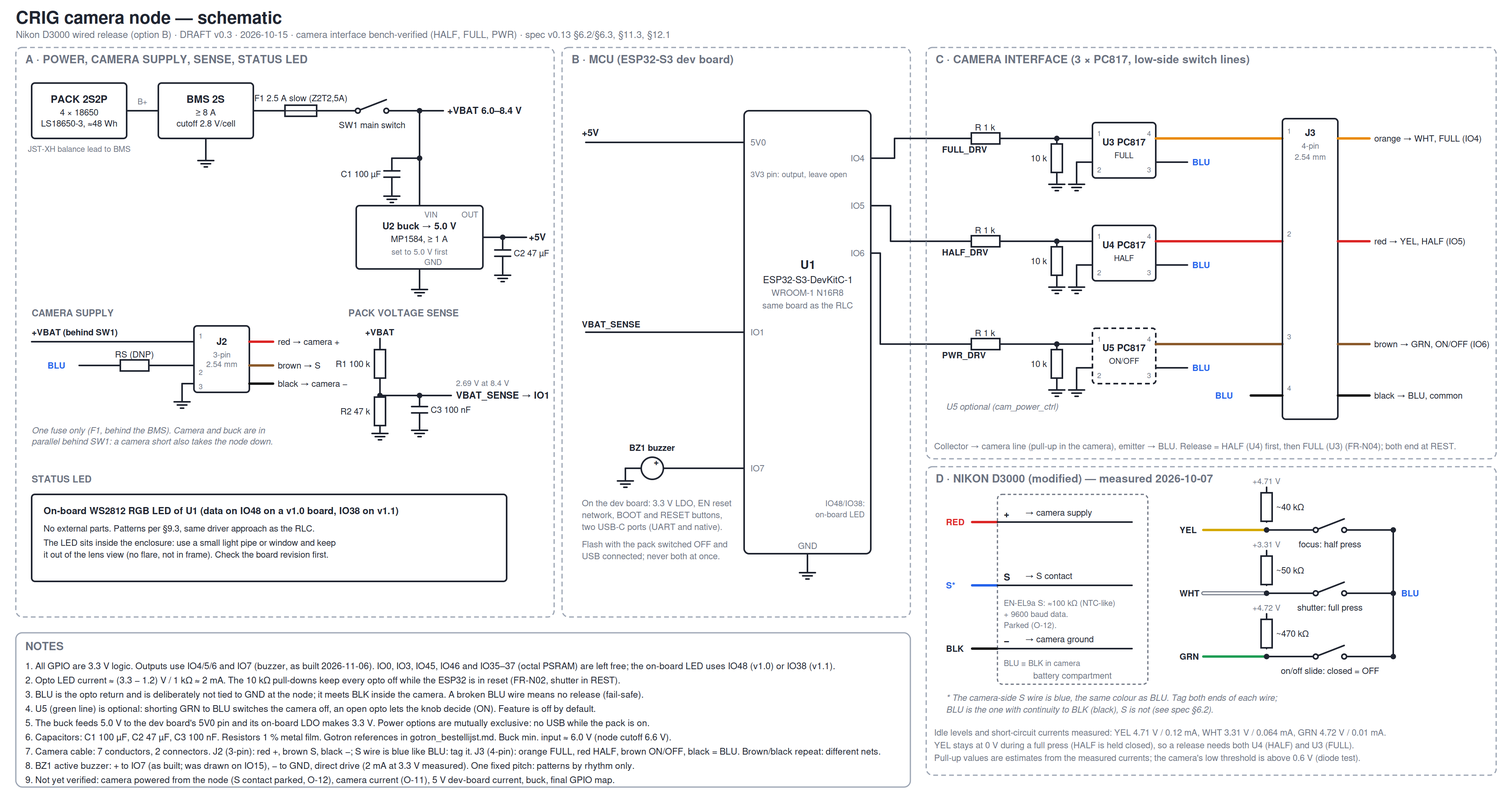
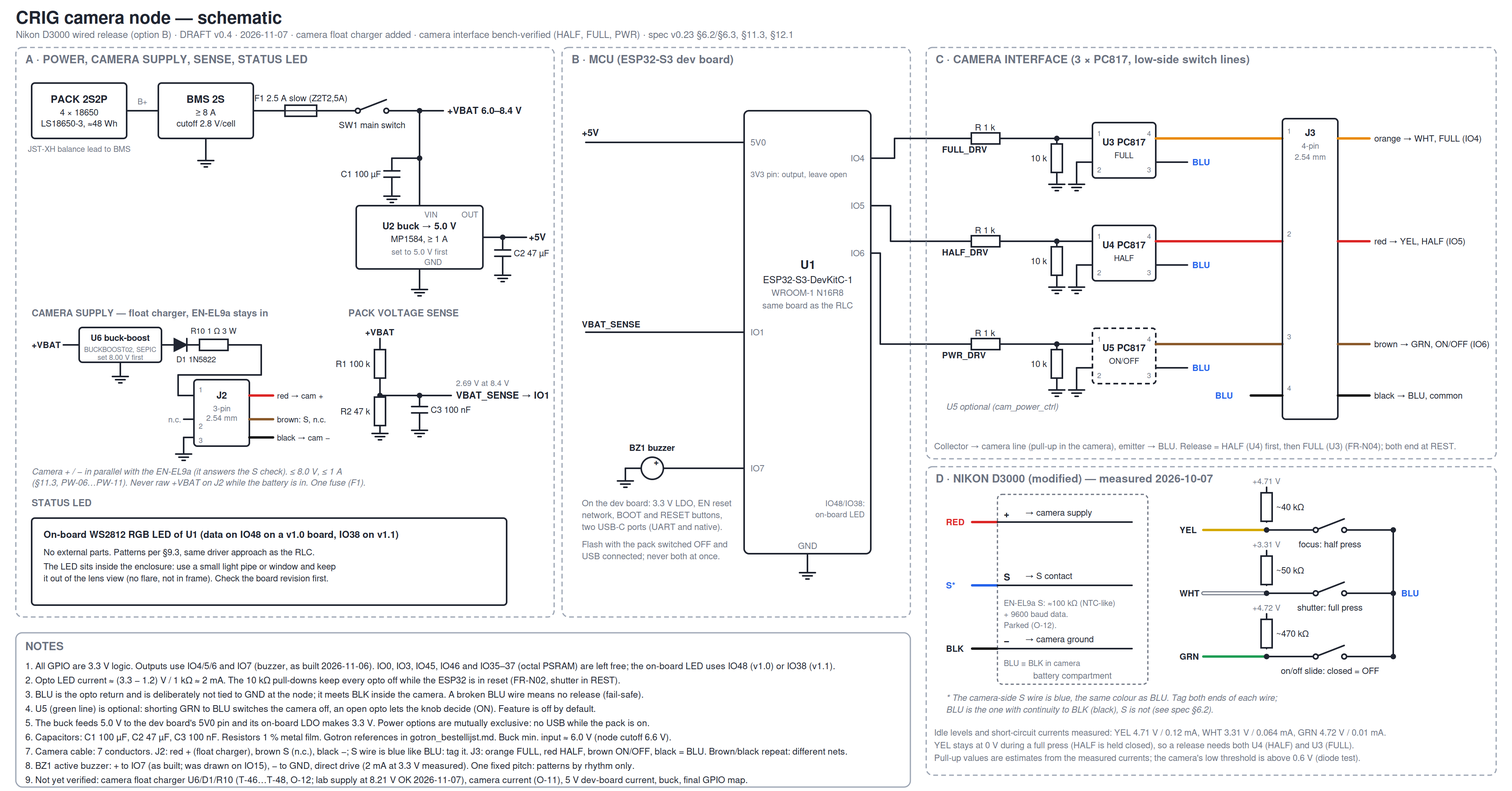
Camera power: float-charge the EN-EL9a at 8.0 V (spec v0.23, schematic v0.4)
Keep the original battery in the camera (it answers the S-line check) and
float-charge it through + and - from the node: BUCKBOOST02 (SEPIC) at 8.00 V,
1N5822, 1 ohm 3 W passive current limit. Lab supply at 8.21 V verified: no
battery error, camera shoots, idle ~100 mA. PW-06..PW-11, T-46..T-49, Gotron
parts list, handoff D40.

Changed region(s): [[0.0, 0.372, 0.2804, 0.744], [0.0935, 0.93, 0.5607, 0.992], [0.2181, 0.031, 0.4984, 0.062]]

diff --git a/camera-rig-functional-spec.md b/camera-rig-functional-spec.md
@@ -3,10 +3,10 @@
 | | |
 |---|---|
 | **Document** | Camera Rig (CRIG) — Functional Specification |
-| **Version** | 0.22 (draft) |
-| **Date** | 2026-11-03 |
+| **Version** | 0.23 (draft) |
+| **Date** | 2026-11-07 |
 | **Author** | David Steeman |
-| **Status** | Draft — wired release (option B) selected; camera power validation open (O-12); remote simplified (no arming, SHOOT only) |
+| **Status** | Draft — wired release (option B) selected; camera power: EN-EL9a stays in and is float-charged by the node at ≤ 8.0 V, validated on a lab supply, converter chain to build (O-12); remote simplified (no arming, SHOOT only) |
 
 ---
 
@@ -19,7 +19,7 @@ Two operating scenarios are supported:
 - **Scenario A — RLC launch (automatic):** motors are ignited with the Remote Launch Controller (RLC). The CRIG remote sits next to the RLC base unit at the pad and receives an optically isolated wired trigger signal from the base during the countdown. No operator action is needed to take the pictures.
 - **Scenario B — Third-party launch system (manual):** motors are ignited with another launch system (e.g. Wilson F/X). The operator holds the CRIG remote and presses SHOOT at "2" in the countdown, releasing it after liftoff.
 
-Both CRIG units are battery powered from their own packs, sized for a full launch day (§11). The camera node's pack also powers the camera, whose own battery is removed.
+Both CRIG units are battery powered from their own packs, sized for a full launch day (§11). The camera node's pack also powers the camera: the camera keeps its own EN-EL9a (which handles Nikon's battery check on the S contact), and the node float-charges it through a current-limited 8.0 V supply (§11.3).
 
 In scope:
 
@@ -254,7 +254,7 @@ Camera cable: **7 conductors on two polarised 2.54 mm plug-in connectors**; the 
 | J3 | 2 | red | YEL | HALF (focus) — GPIO5 via U4 |
 | J3 | 3 | brown | GRN | Camera on/off — GPIO6 via U5 (optional, §6.3) |
 | J3 | 4 | black | BLU | COMMON of focus/shutter (opto return, **not** the pack ground) |
-| J2 (3-pin, power) | 1 | red | RED | Camera supply + (switched +VBAT) |
+| J2 (3-pin, power) | 1 | red | RED | Camera supply + from the camera float charger (8.0 V max, current-limited, §11.3). **Never** raw +VBAT while the EN-EL9a is in the camera (PW-11) |
 | J2 | 2 | brown | S wire (blue, same colour as BLU) | S terminal; **not used by the node**. Bench only: S-line sniffer `firmware/ssniff` (S → 10 kΩ → GPIO2, listen only, §11.3 PW-01). The RS 100 Ω plan is obsolete |
 | J2 | 3 | black | BLK | Pack ground / camera − |
 
@@ -522,7 +522,7 @@ Implementation: the node uses the **on-board WS2812 (NeoPixel) RGB LED** of the 
 | Monitor | Off / shortest monitor-off time (saves power) |
 | Lens | 18 mm, portrait orientation (landscape when covering several pads) |
 | Card | Fast SD card with ≥ 8 GB free, formatted before each session |
-| Battery | EN-EL9a removed; camera powered by the node pack (§11.3) |
+| Battery | Original EN-EL9a stays in; float-charged by the node at ≤ 8.0 V (§11.3) |
 
 ## 11. Power
 
@@ -583,9 +583,28 @@ Power-bank module checks (owner, 2026-11-03, on battery with USB unplugged), all
 
 ### 11.3 Node and camera pack
 
-The camera's EN-EL9a is removed; leads are soldered to the camera's battery compartment terminals and connected to the node, which powers the camera from its own pack.
+**Camera power: float charging the EN-EL9a (decided 2026-11-07).** The camera keeps its original EN-EL9a, so the Nikon battery check on the S contact keeps working (PW-01). Leads are soldered to the camera's + and − battery compartment terminals, **in parallel with the inserted battery**; the S contact is not connected to the node. The node feeds those leads from a current-limited supply set to **8.0 V** (4.0 V per cell). The camera takes its average current from the node, and the battery stays partly full and supplies the peaks (mirror, shutter, AF, flash). This is the same thing the Nikon MH-23 charger does (8.4 V, 0.9 A, through + and − only), at a lower voltage.
 
-**Camera supply voltage:** the EN-EL9a is a 2S Li-ion pack (7.2–7.4 V nominal, 8.4 V full). A 2S Li-ion node pack (6.0–8.4 V) therefore feeds the camera directly, without regulation, within the voltage range the camera is designed for.
+**Why 8.0 V:** a fresh EN-EL9a is at 8.4 V, so the camera is built for more than 8.0 V and runs down to about 6.x V. For the battery, 4.0 V per cell is a mild float. Li-ion ages mainly from high voltage combined with heat, and 8.0 V leaves margin for converter tolerance (±2 % of 8.2 V would already be 8.36 V) and for warm days. The battery then sits at roughly 75–85 % charge, which is enough because it only buffers.
+
+**Bench validation, 2026-11-07:** lab supply in CV at 8.21 V on the camera's + and − with a partly discharged EN-EL9a in the camera: no "battery cannot be used", the camera shoots normally. The supply stayed in CV: 470 mA at the start; 430 mA with the camera on vs. 330 mA off (camera idle ≈ 100 mA ≈ 0.8 W, rough because the charge current was falling between readings); charge current with the camera off tapering 270 → 240 → 200 mA; battery at room temperature. Open: final float current, a clean idle reading on a full battery, peak current during a burst, battery-level display and power cycles while charged (T-46).
+
+**Camera float charger (node design).** Gotron stocks no buck-boost module with an adjustable current limit (searched 2026-11-07), so the current is limited passively:
+
+```
+switched +VBAT (6.0–8.4 V) ── Joy-IT BUCKBOOST02, set to 8.00 V ── 1N5822 Schottky ── 1 Ω 3 W ── J2 pin 1 → camera + (parallel with the EN-EL9a)
+pack − ───────────────────────────────────────────────────────────────────────────── J2 pin 3 → camera −
+```
+
+- **Buck-boost:** the node pack and the EN-EL9a are both 2S, so the input can be above or below the output. A plain boost module is not allowed: with the input above the output it passes current through its inductor and diode without limit. A plain buck cannot reach 8.0 V from a half-empty pack.
+- **Schottky diode:** blocks back-feed from the EN-EL9a into the converter and the node when the node is off or its pack is flat.
+- **1 Ω resistor:** limits the charge current. With the diode it also means the battery can never get above the converter setpoint, even at zero current.
+  - Worst case, EN-EL9a nearly empty at 6.6 V: (8.0 − 0.45 − 6.6) / 1 Ω ≈ **0.95 A**. That is the MH-23's own rating. The resistor dissipates ≈ 0.9 W and the diode ≈ 0.45 W.
+  - Camera on and idle (≈ 0.1 A): the battery settles at ≈ 8.0 − 0.3 − 0.1 ≈ **7.6 V**, about half charge. With the camera off it creeps towards ≈ 7.9 V.
+  - Trade-off: the battery buffer is about half full while the camera is on, not near full. That is acceptable because the node supplies the average current.
+- **Later upgrade (optional):** a real buck-boost charger IC (e.g. TI BQ25798, 1–4S, I²C) with its own NTC on the battery or grip, which blocks charging outside 0–45 °C and lets the ESP32 set and read the current. It is not stocked by Gotron.
+
+**Camera supply voltage (historical, v0.4–v0.22):** the original plan removed the EN-EL9a and fed the camera straight from the 2S node pack (6.0–8.4 V). That fails the Nikon battery check (PW-01) and is dropped. Until the float charger chain is built, J2 must not be connected while the EN-EL9a is in the camera (J2 pin 1 is still raw +VBAT on the bench node, D38).
 
 **Consumption estimate** — camera figures are estimates to be verified by measurement (O-11):
 
@@ -595,8 +614,10 @@ The camera's EN-EL9a is removed; leads are soldered to the camera's battery comp
 | Camera, powered on and idle (worst case: meters active all day, e.g. keep-alive enabled; with the default no keep-alive the camera is mostly in standby) | ~150 mA at 7.4 V ≈ 1.1 W × 12 h | ~13 Wh |
 | Node ESP32-S3 dev board (RX on) + LED | ~120 mA (estimate) through the board's 3.3 V LDO from 5 V ≈ 0.6 W, via the 5 V buck (~85 %) ≈ 0.7 W × 12 h | ~8.5 Wh |
 | Servo (option A only) | Detached at rest; keep-alive and burst movements | ~1 Wh |
-| **Worst-case total** | | **~37.5 Wh** |
-| **Required with × 1.3 margin** | | **~49 Wh** (pack ≈ 48 Wh with 4 × 3350 mAh: tight; camera power control §6.3 saves up to ~13 Wh; current of the dev board on 5 V to be measured, T-33) |
+| Camera float-charger losses | Camera energy (~28 Wh) through the buck-boost (~85 %) plus the diode and resistor (~5 % at 0.1 A) | ~+7 Wh |
+| EN-EL9a buffer | Starts the day at ~7.9 V (float, ~80 %); its charge is available on top of the pack | ~−6 Wh |
+| **Worst-case total** | | **~38.5 Wh** from the node pack |
+| **Required with × 1.3 margin** | | **~50 Wh** (pack ≈ 48 Wh with 4 × 3350 mAh: tight; the float charger adds ~7 Wh of losses, mostly offset by the EN-EL9a buffer; camera power control §6.3 saves up to ~13 Wh; current of the dev board on 5 V to be measured, T-33) |
 
 **Specification:**
 
@@ -607,7 +628,8 @@ The camera's EN-EL9a is removed; leads are soldered to the camera's battery comp
 | BMS | 2S protection/balancing board, ≥ 8 A continuous, over-discharge ≤ 2.8 V/cell, short-circuit protection |
 | Fuse | **One** fuse directly behind the BMS output, before the main switch, protecting everything behind it: 2.5 A slow-blow (5 × 20 mm). Raise to 5 A if the camera peak current measured in O-11/T-33 requires it |
 | Main switch | Powers node and camera together |
-| Camera branch | From the switched +VBAT directly (no own fuse), in parallel with the node buck → camera lead: 2 × 0.5 mm² silicone wire, ≤ 0.5 m, detachable polarised 2.54 mm connector J2 (3-pin, §6.2) at the node |
+| Camera branch | From the switched +VBAT (no own fuse), in parallel with the node buck → camera float charger (below) → camera lead: 2 × 0.5 mm² silicone wire, ≤ 0.5 m, detachable polarised 2.54 mm connector J2 (3-pin, §6.2) at the node |
+| Camera float charger | Joy-IT SBC-BuckBoost02 (Gotron BUCKBOOST02; 5–25 V in, 3–25 V out, 2 A, 30 W, ≤ 89 %), output set to **8.00 V ± 0.03 V** at no load and measured before connecting; then 1N5822 Schottky (3 A) and 1 Ω 3 W metal-oxide resistor in series to J2 pin 1. Max ≈ 0.95 A into an empty EN-EL9a (PW-06…PW-08). Chips seen on the Gotron photos (2026-11-07): FP5139 (Feeling Technology asynchronous **boost** PWM controller), MBR10450S or MBR1045OS (marking unclear; either way an MBR1045-class Schottky, 10 A / 45 V), BL1512 (not identified; probably the switching MOSFET). The board has one 4-pin coil (coupled inductor), so it is a **SEPIC** (confirmed 2026-11-07): input and output are coupled through a capacitor (no DC path from pack to camera) and the output passes the Schottky. There is no settable output current limit, so the 1 Ω stays. The 1N5822 stays too: the module's feedback divider sits behind its own diode and would slowly drain the EN-EL9a with the node off. Quiescent current and setpoint stability over 6.0–8.4 V input to be confirmed on the board (T-47) |
 | Node logic | Buck converter 2S → 5.0 V, ≥ 1 A (e.g. MP1584 module, set and measured before connecting), feeding the 5V0 pin of the dev board; its on-board LDO makes 3.3 V. Input must stay ≥ ~6.0 V (`v_node_cutoff` 6.6 V). USB must not be connected while the pack powers the board |
 | Servo (option A) | Separate buck converter 2S → 5 V, ≥ 3 A peak, ≥ 470 µF bulk capacitor at the servo |
 | Monitoring | Pack voltage divider to ADC; `v_node_warn` 7.0 V (~20 %), `v_node_cutoff` 6.6 V |
@@ -618,23 +640,30 @@ The camera's EN-EL9a is removed; leads are soldered to the camera's battery comp
 
 | ID | Requirement |
 |---|---|
-| PW-01 | Before removing the EN-EL9a for good, measure the resistance between each of its signal contacts (all contacts other than + and −) and −. **Measured (corrected 2026-10-15):** the EN-EL9a has one signal contact ("S", centre) that measures ≈100 kΩ to − at room temperature (86 kΩ after warming in the hand, rising again as it cools: NTC-like). Earlier versions of this document said 98 Ω; that was wrong. A fixed 96.8 kΩ resistor on S does **not** remove "battery cannot be used". With the original battery in the camera, S shows 0 V DC but bursts of 9600 baud data (≈1–1.5 V) at battery insertion: two bursts, the second with a fixed header (break, 0x55 sync, `25 55 FF`) and a payload that differs on every capture, so a fixed answer is not enough (challenge-response or counter suspected). **Parked:** the camera keeps running on the original Nikon battery; see `docs/en-el9-s-pin/EN-EL9_S-pin_findings.md`. Options when taken up again: Nikon EP-5 + EH-5A DC coupler, or a third-party EN-EL9 known to work in the D3000. The RS 100 Ω plan and the Gotron NTC100 idea are dropped. **Follow-up 2026-10-16/19:** a listen-only sniffer (`firmware/ssniff`, S → 10 kΩ → GPIO2/ADC, bench only) is ready to capture the camera alone and the camera ↔ battery exchange. Web research found no public description of the protocol; "decoded" third-party EP-5 couplers exist and are the practical route if camera power from the node is needed. Re-measured 2026-11-03: 102 kΩ S to − (battery out of the camera). |
-| PW-02 | Leads shall be soldered to the camera's battery compartment terminals with strain relief inside the compartment. The lead exits through a notch in the battery door so the door can close; if the camera has a battery-door switch, it must remain actuated. |
+| PW-01 | *(Historical: the EN-EL9a is no longer removed, see PW-06…PW-11.)* Before removing the EN-EL9a for good, measure the resistance between each of its signal contacts (all contacts other than + and −) and −. **Measured (corrected 2026-10-15):** the EN-EL9a has one signal contact ("S", centre) that measures ≈100 kΩ to − at room temperature (86 kΩ after warming in the hand, rising again as it cools: NTC-like). Earlier versions of this document said 98 Ω; that was wrong. A fixed 96.8 kΩ resistor on S does **not** remove "battery cannot be used". With the original battery in the camera, S shows 0 V DC but bursts of 9600 baud data (≈1–1.5 V) at battery insertion: two bursts, the second with a fixed header (break, 0x55 sync, `25 55 FF`) and a payload that differs on every capture, so a fixed answer is not enough (challenge-response or counter suspected). **Parked:** the camera keeps running on the original Nikon battery; see `docs/en-el9-s-pin/EN-EL9_S-pin_findings.md`. Options when taken up again: Nikon EP-5 + EH-5A DC coupler, or a third-party EN-EL9 known to work in the D3000. The RS 100 Ω plan and the Gotron NTC100 idea are dropped. **Follow-up 2026-10-16/19:** a listen-only sniffer (`firmware/ssniff`, S → 10 kΩ → GPIO2/ADC, bench only) is ready to capture the camera alone and the camera ↔ battery exchange. Web research found no public description of the protocol; "decoded" third-party EP-5 couplers exist and are the practical route if camera power from the node is needed. Re-measured 2026-11-03: 102 kΩ S to − (battery out of the camera). **Resolved 2026-11-07:** the EN-EL9a stays in the camera and is float-charged through + and − (PW-06…PW-11); a lab supply at 8.21 V in parallel with the battery gives no error. |
+| PW-02 | Leads shall be soldered to the camera's battery compartment terminals with strain relief inside the compartment, so that the EN-EL9a still fits and makes contact. The lead exits through a notch in the battery door so the door can close; if the camera has a battery-door switch, it must remain actuated. |
 | PW-03 | Polarity shall be verified with a multimeter before first connection. The camera lead connector shall be polarised. |
 | PW-04 | With option B (wired release), the shutter wires (COMMON, HALF, FULL) may share one multi-core cable with the camera power leads. |
-| PW-05 | The camera's own battery gauge reads the pack voltage and is only indicative; the node's pack voltage reading on the remote is authoritative. |
+| PW-05 | The camera's own battery gauge shows the EN-EL9a (float-charged, ~75–85 %) and says nothing about the node pack; the node's pack voltage reading on the remote is authoritative. |
+| PW-06 | The voltage at the camera's battery terminals shall never exceed **8.0 V** (4.0 V per cell) from the node. The float charger is set to 8.00 V ± 0.03 V at no load, measured at its output before it is first connected and after any adjustment. |
+| PW-07 | The current into the camera terminals shall be limited to ≤ 1.0 A for any EN-EL9a state (1 Ω series resistor: ≈ 0.95 A at 6.6 V). |
+| PW-08 | With the node off or its pack flat, the EN-EL9a shall not discharge into the node (series Schottky diode; reverse current < 0.1 mA, measured in T-47). |
+| PW-09 | The S contact stays between the EN-EL9a and the camera only; J2 pin 2 is not connected to the node (bench sniffer only). |
+| PW-10 | Charging only between 0 °C and 45 °C. The passive chain has no temperature cut-off, so this is an operating rule: keep the camera body out of direct sun, and do not run the float charger on a camera that has been below 0 °C until it has warmed up. |
+| PW-11 | Never connect the node pack directly (unregulated) to the camera terminals while the EN-EL9a is in: two Li-ion packs at different charge levels in parallel push large currents into each other. |
 
 ## 12. Hardware summary
 
 ### 12.1 Node
 
-Draft schematic: `crig_node_schematic.svg` (PNG alongside), v0.2, not bench-validated; the GPIO assignment in it (IO1 VBAT sense, IO4 FULL, IO5 HALF, IO6 camera power, IO15 buzzer (as built: IO7); status LED = on-board WS2812 on IO48/IO38) is a proposal.
+Draft schematic: `crig_node_schematic.svg` (PNG alongside), v0.4 (2026-11-07, camera float charger U6/D1/R10 added), not bench-validated; the GPIO assignment in it (IO1 VBAT sense, IO4 FULL, IO5 HALF, IO6 camera power, IO15 buzzer (as built: IO7); status LED = on-board WS2812 on IO48/IO38) is a proposal.
 
 - ESP32-S3-DevKitC-1 dev board (same as the RLC), powered at 5 V by the node buck; on-board LDO, EN reset network, BOOT/RESET buttons and USB-C used for flashing
 - Node and camera pack per §11.3
 - Actuator output: servo header (option A) and/or 2 × optocoupler output with connector (option B); optional third optocoupler for the camera on/off line (§6.3)
 - Active buzzer on GPIO7 (as built; the draft said GPIO15), + to GPIO7 and − to GND, direct drive (2 mA measured at 3.3 V). An active buzzer has one fixed pitch, so patterns are made by rhythm only
-- Camera connectors: J2 (3-pin, power and S) and J3 (4-pin, signals), 2.54 mm polarised (§6.2); status LED (on-board WS2812 of the dev board, §9.3), USB-C of the dev board for firmware and serial console
+- Camera float charger (§11.3): BUCKBOOST02 at 8.00 V → 1N5822 → 1 Ω 3 W → J2 pin 1
+- Camera connectors: J2 (3-pin, camera supply from the float charger; pin 2 S not used) and J3 (4-pin, signals), 2.54 mm polarised (§6.2); status LED (on-board WS2812 of the dev board, §9.3), USB-C of the dev board for firmware and serial console
 - Splash-resistant enclosure fixed to the camera bracket; grit and exhaust shielding for the camera
 
 ### 12.2 Remote
@@ -712,7 +741,11 @@ RLC-side parameters (`cam_lead_ms`, `cam_post_ms`, `cam_max_ms` and the ARM patt
 | T-11 | Low pack / low remote battery (bench supply ramp) | Warnings and cutoffs at the configured voltages, reported on the remote |
 | T-12 | TRIG from a bench supply + 470 Ω, with a 10 Hz ARM pattern on pin 3 (any ESP32 GPIO through 470 Ω) | Burst while asserted; REST within `t_trig_debounce` + `t_shoot_timeout` after deassert |
 | T-13 | Cable unplugged / no ARM pattern, TRIG forced on | TRIG ignored, no SHOOT; status NONE (or LOST if a heartbeat was seen since power-on) |
-| T-14 | Camera powered from the node pack (bench supply 6.6–8.4 V, then the real pack) | Camera operates normally over the full range; battery level plausible (PW-01) |
+| T-14 | Camera powered through the float charger from the node pack (bench supply 6.0–8.4 V on the node input, then the real pack), EN-EL9a in | Camera operates normally over the full input range; no "battery cannot be used"; voltage at the camera terminals ≤ 8.0 V (PW-06) |
+| T-46 | Float charging on a lab supply (CV 8.21 V, camera terminals, EN-EL9a in). **Partly passed 2026-11-07** (no error, shoots, 470 → 200 mA taper in CV, battery at room temperature, §11.3) | Still to record: final float current with the camera off; clean idle current on a full battery; highest current in a 20-frame burst and whether the supply leaves CV; battery-level display plausible; 5 power cycles and one battery re-insertion with the supply connected without an error; battery stays cool |
+| T-47 | Float charger chain on the bench before connecting the camera: BUCKBOOST02 + 1N5822 + 1 Ω, input swept 6.0–8.4 V | No-load output 8.00 V ± 0.03 V at every input, no overshoot at switch-on; converter quiescent current recorded; with the input off, reverse current from a battery at 8.0 V < 0.1 mA (PW-08); into a 6.6 V load (lab supply in sink mode or an empty EN-EL9a) ≤ 1.0 A (PW-07) |
+| T-48 | Float charger with the camera, 1 h: EN-EL9a partly empty at the start, camera on, bursts every 5 min | No error; battery settles around 7.6 V with the camera on; resistor, diode and converter hand-warm at most; battery at room temperature |
+| T-49 | Float charger across a launch day (with T-31) | Camera never shuts down for low battery; pack energy used recorded and compared with §11.3 |
 | T-15 | Galvanic isolation of the RLC interface | ≥ 10 MΩ between pins 1–3 and remote ground |
 | T-16 | Short in the camera lead (via fuse test load) | The pack fuse opens; nothing smokes, the BMS does not trip first |
 | T-17 | ARM decoding (pattern source on pin 3) | 1 Hz → CONNECTED; 10 Hz → ARMED within 0.5 s; back to 1 Hz → CONNECTED within 0.5 s; steady on or off → LOST within `t_arm_lost` + 0.5 s |
@@ -843,15 +876,15 @@ Both ADCs read ~1.5 % low against the meter (ESP32-S3 calibration spread at 12 d
 | O-4 | ~~Club rules for unattended cameras~~ — closed: club has no camera-specific rules |
 | O-5 | ~~ESP32 variant~~ — closed: ESP32-S3 on both units; the remote uses an ESP32-S3-DevKitC-1U (external antenna) like the RLC's board family (v0.15) |
 | O-6 | Actual camera frame count feedback is not available from the D3000; the remote shows an estimate only |
-| O-7 | ~~Node power option~~ — closed: node pack powers node and camera; camera battery removed, leads soldered to its terminals (§11.3) |
+| O-7 | ~~Node power option~~ — closed: node pack powers node and camera; leads soldered to the camera's battery terminals; since v0.23 the EN-EL9a stays in and is float-charged (§11.3) |
 | O-8 | Verify on the physical RLC base that **GPIO39 (TRIG) and GPIO41 (ARM)** are unconnected. Chosen 2026-11-03 from the RLC spec App. C.1 spares (38, 39, 41), cross-checked against the RLC `pin_config.h` (base uses 1, 2, 4–18, 21, 40, 42, 47, 48) and the DevKitC-1 N16R8 reserved pins; GPIO38 kept spare (on-board RGB on v1.1 boards; the base is v1.0, LED on GPIO48) |
 | O-20 | RLC side of the interface (Appendix A, v0.17): hand-off `docs/RLC_change_request_CRIG.md` to the RLC project; implement, test (T-21…T-27) |
 | O-21 | Firmware v0.19 has not been tested with a person present, and some features are not implemented yet. **Not tested:** RLC interface T-24 and the ERROR case of T-27 (T-21–T-23, T-25, T-26, the rest of T-27 and RLC T-C08 passed on the bench 2026-11-06, §14.5); the camera's own power from the node (O-12). The camera end to end (frames, standby wake, RLC burst) passed 2026-11-06 (§14.5). The real SHOOT button (5 taps and a 3 s hold, no bounce), LEDs, RGB patterns, buzzer tones, motor and deep sleep were checked on 2026-11-06 (§14.5). **Not implemented:** camera power control (`cam_power_ctrl`, §6.3; stays off); optional keep-alive (`t_keepalive_interval`, default off); CAL / servo actuator (option A); NVS storage of parameters; final buzzer tone patterns (O-17, provisional tones in use) |
 | O-9 | Location of the 5-pin DIN socket (AD322) on the RLC base panel |
-| O-22 | **Closed 2026-11-06.** Node VBAT sense read the ADC ceiling (9864 mV) whatever the supply: R1 and R2 were swapped (47 k on top). Swapped back; reads within 1 % (§14.5). Found on the way: USB back-feeds ~3.7 V onto +VBAT through the buck, so `v_no_supply` is now 4.5 V (FR-N10). Never feed more than 8.4 V: J2 passes the supply to the camera unregulated |
+| O-22 | **Closed 2026-11-06.** Node VBAT sense read the ADC ceiling (9864 mV) whatever the supply: R1 and R2 were swapped (47 k on top). Swapped back; reads within 1 % (§14.5). Found on the way: USB back-feeds ~3.7 V onto +VBAT through the buck, so `v_no_supply` is now 4.5 V (FR-N10). Never feed more than 8.4 V: J2 passes the supply to the camera unregulated (until the float charger of §11.3 is built; then J2 is ≤ 8.0 V) |
 | O-10 | ~~Isolated DC-DC converter~~ — closed: no longer needed; the remote has its own battery and the interface is fully optically isolated |
 | O-11 | Measure the D3000's actual current draw (standby, meters active, during a burst) and update the §11.3 budget |
-| O-12 | EN-EL9a S contact: ≈100 kΩ NTC-like plus 9600 baud data (not 98 Ω); a fixed resistor does not remove the "battery cannot be used" error. **Parked**; the node cannot yet power the camera, the camera uses the original battery (PW-01). Reopen when camera power from the node is needed. Sniffer `firmware/ssniff` ready (bench only); alternative: a third-party EP-5 coupler that works in the D3000 without error |
+| O-12 | Camera power from the node. The EN-EL9a S contact (≈100 kΩ NTC-like plus 9600 baud data) cannot be faked with a resistor (PW-01). **Approach decided 2026-11-07:** keep the EN-EL9a in and float-charge it at ≤ 8.0 V through + and − (§11.3, PW-06…PW-11); a lab supply at 8.21 V works without error (T-46 partly passed). Open until the BUCKBOOST02 + 1N5822 + 1 Ω chain is built and T-46…T-48 pass. The S-line reverse-engineering (`firmware/ssniff`) is no longer needed |
 | O-13 | ~~Shutter/power flex pinout~~ — closed: blue = COMMON, yellow = HALF, white = FULL, green = on/off (§6.2, §6.3) |
 | O-16 | Node dev board antenna: DevKitC-1 (PCB antenna) vs. -1U (u.FL); decide after the range test (T-30). Also measure the dev board current at 5 V |
 | O-18 | ~~SHOOT button~~ — closed 2026-11-03: plain push button + two separate 3 mm LEDs (green IO10, red IO11), direct GPIO drive. Original text: choose an illuminated type with a bi-colour (or two-colour) ring whose LEDs light at ≤ 3.3 V per colour and a few mA, since they are driven directly from GPIOs (no drivers). Series resistor values follow from the chosen ring. The three discrete LEDs are dropped (v0.15) |
@@ -913,6 +946,7 @@ T-21 to T-27 (§14.2), to be added to the RLC test specification with RLC-side I
 | 0.1 | 2026-09-27 | Initial draft |
 | 0.2 | 2026-09-27 | Added node power options, closed O-4, added O-7 |
 | 0.3 | 2026-09-27 | Two scenarios (RLC automatic / third-party manual); CRIG remote as the node's only controller; wired RLC interface with power from the base battery and single TRIG line; default channel changed to 1 (RLC on 11), O-2 closed; camera wake handled by the node only; no pad matching; integration tests; Appendix A RLC change request |
+| 0.23 | 2026-11-07 | Camera power: the EN-EL9a stays in the camera and is float-charged by the node at ≤ 8.0 V through + and − (§11.3 rewritten, §1, §6.2 J2 pin 1, §10, §12.1). Bench check on a lab supply at 8.21 V: no battery error, camera shoots, camera idle ≈ 100 mA. Float charger: Joy-IT BUCKBOOST02 at 8.00 V + 1N5822 + 1 Ω 3 W (passive current limit ≈ 0.95 A max); PW-05 updated, PW-06…PW-11 added; power budget with charger losses and the EN-EL9a buffer; T-14 revised, T-46…T-49 added; O-7, O-12, O-22 updated; node schematic v0.4 (float charger U6/D1/R10, J2 pin 2 n.c.) |
 | 0.22 | 2026-11-07 | Protocol version 2: HEARTBEAT carries the remote battery voltage (§7.2, §7.3); the node reports and logs it (FR-N20), so the remote's runtime can be logged on the node's USB console while the remote runs on its cell. Host tests 32 checks; HIL 15/15 (H03, H12 not run: node on its native port) |
 | 0.21 | 2026-11-06 | Battery sense fixed on both units (§14.5): node R1/R2 were swapped (O-22 closed); remote divider was on IO13 instead of IO1, so the 2026-11-03 battery pass (§11.2) was a floating pin and is withdrawn; both now read within ~1.5 %. Node `v_no_supply` 2.0 → 4.5 V because USB back-feeds ~3.7 V onto +VBAT (FR-N10, §13); §11.2 notes that the battery ADC must be an ADC1 pin |
 | 0.20 | 2026-11-06 | RLC interface on the bench (U4, U6 and the DIN socket fitted, RLC fw 1.2.22): the ARM input showed about four falling edges per pulse (optocoupler turn-off), so the remote now samples ARM every 1 ms with a 3 ms debounce (FR-R10 note); with the edge interrupt the 10 Hz armed pattern would never have decoded. New HIL tests R01–R02 against the real base (§14.5); O-21 updated; arm-and-fire bench session with the real RLC (T-21, T-22, T-26, T-27 except ERROR, RLC T-C08 all pass, §14.5; then T-23 and T-25 pass); node no longer gives a wake pulse straight after a burst (FR-N19); look-and-listen check passed (§14.5): node buzzer on GPIO7 as wired (FR-N18), longer node beeps, RLC-restored beep on the remote, OLED switched off before deep sleep; camera end to end: 3 fps confirmed, 19 frames per RLC launch, wake from standby (§14.5); O-22 added (VBAT sense stuck at the ADC ceiling) |

diff --git a/CRIG_session_handoff.md b/CRIG_session_handoff.md
@@ -60,12 +60,12 @@ Findings from reading the RLC source (firmware ~1.2.19, FSD v1.7x):
 | D10 | CRIG radio on **channel 1** (RLC fixed on 11) | No airtime interaction |
 | D11 | No WAKE line from the RLC; the **node alone** handles camera wake | Saves a base pin; keep-alive is sufficient |
 | D12 | ~~Power CRIG remote from RLC base~~ → **reverted**: remote has its **own battery** | Full galvanic isolation via optocoupler; RLC supplies no power |
-| D13 | Node has a **2S2P 18650 pack (~50 Wh)** that powers **node + camera**; camera battery removed, leads soldered to camera battery terminals | Sized for a 12 h launch day, ~1 000 frames |
+| D13 | Node has a **2S2P 18650 pack (~50 Wh)** that powers **node + camera**; leads soldered to camera battery terminals; camera battery removed (**superseded by D40:** the EN-EL9a stays in and is float-charged) | Sized for a 12 h launch day, ~1 000 frames |
 | D14 | Remote battery: **1 × 18650 ≥ 3 000 mAh**, USB-C charging | ~16 h at ~185 mA (spec v0.15 §11.2; the earlier ~24 h estimate assumed a buck-boost to 3.3 V) |
 | D15 | *(Superseded by D31/D32.)* RLC interface connector: **GX12-4**: TRIG+, TRIG−, DET, DET_RET (DET pins bridged inside the base socket for cable detect) | Connector type not used for igniters |
 | D16 | Trigger window in base: assert at PRE_FIRE + 3000 ms (T‑2), deassert at fire pulse end + 3000 ms; immediate deassert on any abort/ERROR/disarm; hard cap 10 s | See spec §8.4 and Appendix A |
 | D17 | Camera interface (bench-verified 2026-10-15: HALF + FULL released the shutter; HALF = U4/GPIO5, FULL = U3/GPIO4; a soldering fault on the FULL stage was repaired): 2 × PC817 (HALF, FULL) on the D3000's measured low-side switch lines; FULL asserts both; optional 3rd on the green on/off line | Spec §6.2/§6.3; measurements in §6.2 below |
-| D18 | EN-EL9a "S" contact: **corrected 2026-10-15** — it is not ~98 Ω but ≈100 kΩ at room temperature (NTC-like, 86 kΩ when warmed) and it also carries a 9600 baud data exchange; a fixed resistor (tried 96.8 kΩ) does NOT remove "battery cannot be used". Parked, see `docs/en-el9-s-pin/EN-EL9_S-pin_findings.md`. Camera keeps running on the original Nikon battery for now. S wire must not be blue (BLU = COMMON) | The earlier 98 Ω / RS 100 Ω plan is invalid Re-measured 2026-11-03: 102 kΩ S to − (battery out of the camera). |
+| D18 | EN-EL9a "S" contact: **corrected 2026-10-15** — it is not ~98 Ω but ≈100 kΩ at room temperature (NTC-like, 86 kΩ when warmed) and it also carries a 9600 baud data exchange; a fixed resistor (tried 96.8 kΩ) does NOT remove "battery cannot be used". Parked (resolved differently by D40: keep the battery in, float-charge it), see `docs/en-el9-s-pin/EN-EL9_S-pin_findings.md`. Camera keeps running on the original Nikon battery for now. S wire must not be blue (BLU = COMMON) | The earlier 98 Ω / RS 100 Ω plan is invalid Re-measured 2026-11-03: 102 kΩ S to − (battery out of the camera). |
 | D19 | Node uses the ESP32-S3-DevKitC-1 (same as the RLC) fed 5.0 V by the buck on its 5V0 pin | On-board LDO, EN network, BOOT/RESET, USB-C; budget +3.5 Wh (spec v0.6 §11.3); no USB while the pack is on; antenna O-16 |
 | D20 | Status LED = on-board WS2812 (IO48 on v1.0, IO38 on v1.1) | No external LED; light pipe out of the lens view |
 | D24 | *(Hardware superseded by D30: plain button + two LEDs; the green/red readiness meaning stays.)* Remote SHOOT button is an illuminated button with a bi-colour ring: green = rig ready (link OK, no FAULT/LOCKOUT, batteries OK; "node ARMED" dropped in v0.15), red otherwise (spec FR-R13); both use cases kept: manual remote and RLC TRIG | Spec v0.8; O-18 |
@@ -79,6 +79,7 @@ Findings from reading the RLC source (firmware ~1.2.19, FSD v1.7x):
 | D37 | **Look-and-listen check (2026-11-06):** node buzzer is wired to GPIO7 (draft said GPIO15): firmware follows the wiring. Node beeps lengthened (boot 200 ms, link-up 2 × 100 ms); remote beeps 2 × 100 ms when the RLC comes back after LOST; OLED display + charge pump off before deep sleep. Readiness LEDs stay green while shooting (by design; shooting is shown by motor, RGB, OLED). Console `beep <ms>` on both units, `reboot` on the node | Spec v0.20 FR-N18, §14.5 |
 | D38 | **Camera end to end (2026-11-06):** D3000 on its own battery, release cable J3 only (J2 stays disconnected while the camera battery is in: it is wired straight to the battery terminals, unregulated). 3.0 fps confirmed; an RLC launch gives 19 frames, ~6 before ignition; wakes from standby. Frames can be read from the card over USB (gvfs gphoto2). Open: node VBAT sense stuck at the ADC ceiling (O-22) | Spec v0.20 §14.5, O-22 |
 | D39 | **Battery sense fixed (2026-11-06):** node R1/R2 were swapped (O-22 closed); the remote divider was on IO13, not IO1, so the 2026-11-03 battery pass was a floating pin. Both now read within ~1.5 % of the meter. USB alone back-feeds ~3.7 V onto the node +VBAT through the buck, so `v_no_supply` is 4.5 V (was 2.0 V). Lesson: check an ADC reading against a meter and with the input switched off before calling it a pass. Spec v0.21 |
+| D40 | **Camera power by float charging (2026-11-07):** the EN-EL9a stays in the camera (it answers the S-line battery check) and the node float-charges it through + and − at ≤ 8.0 V (4.0 V/cell, margin for converter tolerance and heat). Lab supply CV 8.21 V on the camera terminals: no error, camera shoots, 470 → 200 mA taper, camera idle ≈ 100 mA, battery at room temperature. Gotron has no CC/CV buck-boost, so: Joy-IT BUCKBOOST02 set to 8.00 V → 1N5822 (back-feed block) → 1 Ω 3 W (passive limit, ≈ 0.95 A into an empty pack). Never connect raw +VBAT to J2 while the battery is in | Spec v0.23 §11.3, PW-06…PW-11, T-46…T-49; supersedes the battery-removal plan (D18, O-7) |
 | D28 | **No arming (2026-11-01):** ARM switch, TEST and MENU buttons and the three discrete LEDs removed from the remote; node has no DISARMED/ARMED states (IDLE instead); a short SHOOT tap is the test frame; config/calibration/test via the node's USB console | "It is not a launch controller; accidental triggering wastes a few shots." Spec v0.15 principle 8, §9.1, §9.2, §7.3 |
 | D29 | Remote hardware (2026-11-01): ESP32-S3-DevKitC-1U N16R8 with external antenna; 18650 → protection → switch → 5 V boost → 5V0 (~16 h; parts as built in D30); on-board RGB LED = status; ring LEDs and buzzer (same part as node) direct from GPIOs; NPN only for the vibration motor | Spec v0.15 §11.2, §12.2; draft `crig_remote_schematic.svg` (generator `tools/remote_schematic.py`); supersedes D14's ~24 h / TPS63020+BQ24074 plan |
 | D27 | The camera-side S wire is blue, the same colour as BLU (no other colour available): tag both ends and verify BLU has continuity to BLK, S does not | Spec v0.12 §6.2 |
@@ -111,7 +112,7 @@ Scenario B (other): operator holds SHOOT on CRIG remote ────────
 | O-8 | Verify chosen RLC base spare GPIO physically + DevKitC-1 revision | David |
 | O-9 | Location of the 5-pin DIN socket on the RLC base panel | David |
 | O-11 | Measure D3000 current draw (standby, meters active, burst) and update the power budget | David |
-| O-12 | EN-EL9a S contact re-measured 2026-10-15: ≈100 kΩ NTC-like plus 9600 baud data (not 98 Ω). 96.8 kΩ on S did not remove the error. **Parked**; findings in `docs/en-el9-s-pin/`. Powering the camera from the node is on hold; the camera runs on the original battery | David |
+| O-12 | Camera power from the node: **decided 2026-11-07** to keep the EN-EL9a in and float-charge it at ≤ 8.0 V through + and − (BUCKBOOST02 at 8.00 V + 1N5822 + 1 Ω 3 W). Lab supply at 8.21 V works without error. Open until the chain is built and T-46…T-48 pass (spec v0.23 §11.3) | David |
 | O-13 | ~~Pinout of shutter/power flex~~ — closed: see §6.2 | — |
 | O-18 | ~~SHOOT ring type~~ — closed 2026-11-03: plain button + two 3 mm LEDs | — |
 | O-19 | ~~Remote board revision / RGB pin~~ — closed 2026-11-03: GPIO48, verified | — |
@@ -164,7 +165,7 @@ Coloured wires were soldered to the shutter/focus switch, the on/off switch and 
 
 - ESP32-S3 (bring-up and `firmware/optotest`) drives the three optocouplers: HALF (GPIO5/U4 → camera yellow), FULL (GPIO4/U3 → camera white), PWR (GPIO6/U5 → camera green). The camera takes a picture with HALF + FULL asserted and releases the shutter when both end.
 - HALF and FULL were documented the other way round in spec ≤ v0.12; fixed in spec v0.13, schematic v0.3 and the firmware. The wires at the connector were **not** changed.
-- Powering the camera from the node is parked: the S contact of the EN-EL9a is ≈100 kΩ + a 9600 baud exchange, not 98 Ω (see D18 and `docs/en-el9-s-pin/`). The camera runs on the original battery; the node's ESP32 is not powered from the camera supply.
+- *(Superseded 2026-11-07 by D40: float charging with the EN-EL9a in.)* Powering the camera from the node is parked: the S contact of the EN-EL9a is ≈100 kΩ + a 9600 baud exchange, not 98 Ω (see D18 and `docs/en-el9-s-pin/`). The camera runs on the original battery; the node's ESP32 is not powered from the camera supply.
 - `firmware/bringup` after the mapping fix: `a`, then `f` (HALF 1000 ms, then HALF+FULL 500 ms) takes one picture (verified 2026-10-15).
 - Timing sweeps 2026-10-15 (`s`, `S`; manual focus, single frame, D3000): every attempt took a picture, down to FULL = 10 ms (one 10 ms RTOS tick, so 10–20 ms in practice) with HALF 1000 ms before it, and with HALF lead 0 ms (HALF and FULL asserted together) at FULL 500 ms. The camera is very tolerant of short pulses, so the real timings can be chosen with a wide margin; not yet tested: continuous release (burst) rate with FULL held, autofocus, camera waking from standby.
 - Burst test 2026-10-15 (continuous release, FULL held with `F`, manual focus, 1/200 s, 3872x2592 JPEG): EXIF times (0.5 s resolution, `docs/bench/exif-times-2026-10-15.tsv`) show DSC_4590–4660 = 71 frames from 15:42:09.5 to 15:42:37.5, i.e. ≈2.5 frames/s on average; the first 11 frames took ≈3.5 s (≈3 fps), the last 11 ≈4 s (≈2.5 fps): a slight slow-down once the buffer is full, no stall. (Camera clock; EXIF resolution is only 0.5 s.)

diff --git a/changelog.md b/changelog.md
@@ -423,3 +423,46 @@ David measured the S contact to − on the original EN-EL9a (out of the camera):
 - Tests: host 32 checks (new: HEARTBEAT v2 round-trip, old 1-byte HEARTBEAT rejected); HIL 15/15 (H03 and H12 need the node on its UART bridge, not run).
 - New `firmware/crig/tools/runtime_log.py`: logs the node's native console with host timestamps and asks for `status` every 30 s; reopens the port if it drops; meant to run detached (`setsid nohup …`).
 - Docs: spec v0.22 (§7.2 version, §7.3 HEARTBEAT, FR-N20, history), firmware README.
+
+## 2026-11-07 (cont.) — Camera power by float charging the EN-EL9a (spec v0.23)
+
+Goal: power the D3000 from the node without faking the Nikon battery check on the S contact. Idea: keep the original EN-EL9a in the camera and charge it continuously from the node through + and − only.
+
+### Bench test (lab supply)
+
+- Lab supply CV 8.21 V on the camera's + and − battery contacts, in parallel with a partly discharged EN-EL9a: **no "battery cannot be used"**, camera shoots normally.
+- Supply stayed in CV throughout: 470 mA at the start; 430 mA camera on vs. 330 mA camera off → camera idle ≈ 100 mA (≈ 0.8 W; rough, the charge current was falling between readings). Charge current with the camera off then 270 → 240 → 200 mA. Battery at room temperature.
+- Still to record (T-46): final float current, clean idle current on a full battery, peak current during a burst, battery-level display, power cycles and a re-insertion with the supply connected.
+
+### Design decisions
+
+- **8.0 V max at the camera terminals** (4.0 V/cell): the camera is built for 8.4 V; 8.0 V gives margin for converter tolerance (±2 % of 8.2 V is already 8.36 V) and heat. The battery floats at ~75–85 %, which is enough because it only buffers peaks.
+- Gotron has **no buck-boost with an adjustable current limit** (searched "buck boost", "step up down", "dc-dc", "CC CV"). Chosen: passive current limit.
+
+```
++VBAT (6.0–8.4 V) → U6 Joy-IT BUCKBOOST02 @ 8.00 V → D1 1N5822 → R10 1 Ω 3 W → J2 pin 1 → camera + (parallel with the EN-EL9a)
+```
+
+| Part | Why |
+|---|---|
+| BUCKBOOST02 (FP5139 boost controller, one 4-pin coupled inductor → **SEPIC**, confirmed from photos; MBR10450S/MBR1045OS Schottky; BL1512 probably the MOSFET) | 2S → 2S needs both up and down; SEPIC has no DC path from pack to camera. A plain boost module would pass unlimited current when Vin > Vout |
+| 1N5822 (3 A) | Stops back-feed; the module's feedback divider sits behind its own diode and would slowly drain the EN-EL9a with the node off |
+| 1 Ω 3 W | Passive current limit: ≈ 0.95 A into an EN-EL9a at 6.6 V (≈ Nikon MH-23's 0.9 A); battery settles ≈ 7.6 V with the camera idle, ≈ 7.9 V with it off |
+
+- Optional later upgrade: TI BQ25798 charger IC with its own NTC (not at Gotron).
+
+### Documentation
+
+| File | Change |
+|---|---|
+| `camera-rig-functional-spec.md` | v0.23: §11.3 rewritten (float charging, bench result, charger chain, budget with ~7 Wh charger losses offset by ~6 Wh EN-EL9a buffer); J2 pin 1 from the charger, pin 2 n.c.; §1, §10, §12.1; PW-01 marked historical/resolved, PW-05 updated, PW-06…PW-11 added; T-14 revised, T-46…T-49 added; O-7, O-12, O-22 updated |
+| `crig_node_schematic.svg/.png` | v0.4: camera-supply block redrawn with U6/D1/R10, RS removed, J2 pin 2 n.c.; notes 7 and 9 updated (edited by hand, no generator script exists for the node schematic) |
+| `CRIG_session_handoff.md` | D40 added; D13, D18, O-12 and the bench-status note marked superseded |
+| `gotron_bestellijst.md` | New section "Camera-floatlader": BUCKBOOST02 ×2, 1N5822 ×2, R3W/1E0 ×2, R3W/1E5 ×1 ≈ €14.54 |
+| `docs/en-el9-s-pin/EN-EL9_S-pin_findings.md` | Update banner: S protocol no longer needs reverse-engineering |
+
+### Notes
+
+- **Do not connect J2 while the EN-EL9a is in** until the charger chain is built: on the bench node J2 pin 1 is still raw +VBAT.
+- Charging only 0–45 °C (PW-10): the passive chain has no temperature cut-off.
+- Next: order the parts, run T-47 (chain alone: setpoint over 6.0–8.4 V input, quiescent and reverse current, ≤ 1 A into 6.6 V), then T-46/T-48 with the camera.

diff --git a/gotron_bestellijst.md b/gotron_bestellijst.md
@@ -37,6 +37,18 @@ Prijzen incl. btw, opgehaald op 2026-10-07 (kortingsprijs waar van toepassing). 
 - TPS63020 en BQ24074 (remote)
 - Grote gele SHOOT-knop, ARM-toggle met beugel, TEST/MENU-knoppen, schuifschakelaar
 
+## Camera-floatlader (spec v0.23 §11.3, nog te bestellen)
+
+EN-EL9a blijft in de camera; de node houdt hem op max. 8,0 V. Prijzen incl. btw, opgehaald op 2026-11-07. Gotron heeft geen buck-boost met instelbare stroombegrenzing; de stroom wordt passief begrensd met diode + weerstand.
+
+| Gotron-ref. | Onderdeel | Aantal | Stukprijs | Totaal | Opmerking |
+|---|---|---|---|---|---|
+| BUCKBOOST02 | [DC-DC buck-boost Joy-IT SBC-BuckBoost02, 5–25 V → 3–25 V, 2 A, 30 W](https://www.gotron.be/dc-dc-buck-boost-converter-joy-it-5-25v-naar-3-25v-30w-2a.html) | 2 | €5,90 | €11,80 | 1 + 1 reserve. Op **8,00 V** zetten en meten vóór aansluiten. Chips op de foto's: FP5139 (boost-controller) met één spoel met 4 pinnen = SEPIC (bevestigd), MBR10450S/MBR1045OS (Schottky 10 A / 45 V), BL1512 (vermoedelijk MOSFET). Geen instelbare stroomgrens. Ruststroom meten (T-47). Alternatief met display: [BUCKBOOST01](https://www.gotron.be/voltage-converter-met-step-up-en-step-down-functie-met-display-joy-it.html) €11,91 (LM2577 + LM2596, minder efficiënt) |
+| 1N5822 | [Schottky 1N5822, 3 A](https://www.gotron.be/diode-1n5822.html) | 2 | €0,65 | €1,30 | Terugvoedingsblokkade; 1N5819 (1 A) is te krap bij ~0,95 A |
+| R3W/1E0 | [1 Ω 3 W metaaloxide 5 %](https://www.gotron.be/3w-metaaloxide-weerstand-5-1-ohm.html) | 2 | €0,48 | €0,96 | Stroombegrenzing (max ≈ 0,95 A, ≈ 0,9 W) |
+| R3W/1E5 | [1,5 Ω 3 W metaaloxide 5 %](https://www.gotron.be/3w-metaaloxide-weerstand-5-1-5-ohm.html) | 1 | €0,48 | €0,48 | Optioneel: als 0,95 A te warm blijkt (dan max ≈ 0,65 A) |
+| | **Totaal** | | | **€14,54** | Voorraad van de diode en weerstanden niet gecontroleerd |
+
 ## Nog niet besteld / wachten op test
 
 - NTC100 ([Gotron](https://www.gotron.be/ntc-thermistor-100ohm-10-tolerance.html)), ref. NTC100: alleen als de vaste 100 Ω op S niet volstaat of je echte celtemperatuur wilt

diff --git a/docs/en-el9-s-pin/EN-EL9_S-pin_findings.md b/docs/en-el9-s-pin/EN-EL9_S-pin_findings.md
@@ -1,5 +1,7 @@
 # EN-EL9(a) S-pin: bevindingen (parkeerstand)
 
+> **Update 2026-11-07:** het S-protocol hoeft niet meer nagebootst te worden. De EN-EL9a blijft in de camera (hij beantwoordt zelf de batterijcontrole op S) en de node houdt hem via + en − op max. 8,0 V (floatladen). Een labovoeding op 8,21 V parallel aan de batterij geeft geen foutmelding; de camera fotografeert normaal. Zie spec v0.23 §11.3, PW-06…PW-11. De bevindingen hieronder blijven als achtergrond.
+
 Datum: 2026-10-15. Status: **geparkeerd** — niet verder uitgezocht. De camerabesturing gaat voor.
 Besluit: de ESP32-print wordt **niet** meer vanuit een dummy-batterij gevoed; de camera werkt verder met de originele Nikon-batterij.
 
